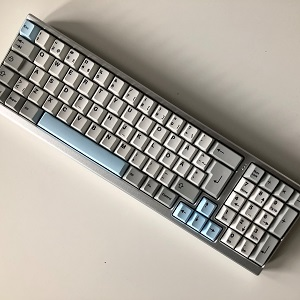
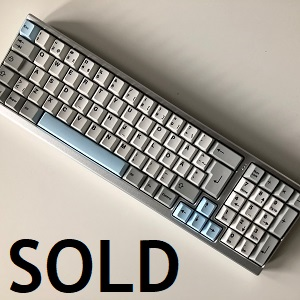
septemeber sale

Changed region(s): [[0.03, 0.78, 0.6, 0.99]]

diff --git a/index.html b/index.html
@@ -67,16 +67,15 @@
 			<i class="fa fa-caret-down"></i>
 			</button>
 		<div class="dropdown-content">
+		<a href="acrylictofu.html">Acrylic Tofu</a>
 		<a href="campine.html">Boardwalk Campine</a>
 		<a href="g80-1800b.html">Black G80-1800</a>
 		<a href="kotai.html">Kotai</a>
 		<a href="decent65v2.html">Decent65</a>
-		<a href="g80-1800.html">Modified G80-1800</a>
+		<a href="g80-1800.html">Beige G80-1800</a>
 		<a href="decent65proto.html">Decent65 prototype</a>
-		<a href="blacktofu.html">Black Tofu</a>
 		<a href="i69.html">i69</a>
 		<a href="idb60proto.html">idb60 prototype</a>
-	    <a href="cypher.html">Cypher keyboard 2</a>
 	    <a href="gregg.html">Gregg</a>
 		</div>
 		</div>
@@ -110,6 +109,24 @@
   –––––––––––––––––––––––––––––––––––––––––––––––––– -->
 <div class="main">
 				<ul id="og-grid" class="og-grid">
+					<li>
+						<a href="acrylictofu.html" data-largesrc="../assets/images/acrylictofu/1.jpg" data-title="Acrylic Tofu" data-description=
+						"
+						<b>Case: </b>Acrylic Tofu</br>
+						<b>Layout: </b>60%</br>
+						<b>Mount: </b>Tray</br>
+						<b>Plate: </b>Brass</br>
+						<b>PCB: </b>Plain60c</br>
+						<b>Switches: </b>Vintage blacks</br>
+						<b>Keycaps: </b>GMK Nautilus R1</br>
+						<b>Aquired: </b>Fall 2019</br></br>
+						<b>Additional information:</b></br>
+Just a Kbdfans Tofu case in acrylic with a brass plate and vintage black switches. Topped off with some lovely GMK Nautilus keycaps.
+						"
+						>
+							<img src="../assets/images/acrylictofu/1.jpg" alt="Acrylic Tofu" width="300"/>
+						</a>
+					</li>
 					<li>
 						<a href="campine.html" data-largesrc="../assets/images/campine/0.jpg" data-title="Boardwalk Campine" data-description=
 						"
@@ -225,26 +242,6 @@ This build is the first prototype and has aluminium plate and Invyr Holy Panda s
 						>
 							<img src="images/decent65proto.jpg" alt="Decent65 Proto" width="300"/>
 						</a>
-					</li>
-					<li>
-						<a href="blacktofu.html" data-largesrc="images/blacktofu.jpg" data-title="Black Tofu" data-description=
-						"
-						<b>Case: </b>Kbdfans black Tofu</br>
-						<b>Layout: </b>60%</br>
-						<b>Mount: </b>Tray</br>
-						<b>Plate: </b>Black aluminium</br>
-						<b>PCB: </b>Plain60-B from Maartenwut</br>
-						<b>Switches: </b>Revo Clears lubed with GPL104</br>
-						<b>Keycaps: </b>OG Cherry alphas and Solarized Dark modifiers</br>
-						<b>Aquired: </b>August 2019</br></br>
-						<b>Additional information:</b></br>
-Not every keyboard have to be fancy, bespoke or custom. This is a very simple traymount Tofu build with aluminium plate.
-But the color combinations really does it for me. The black case, the dark modifiers with their colorful legends and the bright alphas make it subtle yet striking.
-The lubed Revo Clear switches combined with a dampening mat in the case make it sound thoccy and good. 
-						"
-						>
-							<img src="images/blacktofu.jpg" alt="blacktofu" width="300"/>
-						</a>
 					</li>	
 					<li>
 						<a href="i69.html" data-largesrc="images/i69.jpg" data-title="i69" data-description=
@@ -287,26 +284,6 @@ Layout is 60% WKL with stepped CapsLock and split right shift. It is built with 
 						</a>
 					</li>
 					<li>
-						<a href="cypher.html" data-largesrc="assets/images/cypher/5.jpg" data-title="Cypher silver top" data-description=
-						"
-						<b>Board: </b>Cypher with silver top and grey bottom</br>
-						<b>Layout: </b>1800cp without F-row</br>
-						<b>Mount: </b>Top mount</br>
-						<b>Plate: </b>Carbon fiber</br>
-						<b>PCB: </b>Cypher PCB</br>
-						<b>Switches: </b>Unholy Pandas lubed with GPL104</br>
-						<b>Keycaps: </b>ePBT greyscale</br>
-						<b>Aquired: </b>March 2019</br></br>
-						<b>Additional information:</b></br>
-The Cypher is a compact f-rowless 1800 layout keyboard, which means it is somewhat close to fullsize in regard that it has a numpad and arrow cluster, but is lacking the f-row (f1-f12) and one or two rows (depending on size) above the numpad.
-What they lack in number of keys they make in nimble size and portability. The f-row is reached using Fn-key and numrow.
-Furthermore do they have three leds between numlock and backspace for caps lock, num lock and scroll lock. 
-						"
-						>
-							<img src="images/cypher2.jpg" alt="cypher2" width="300"/>
-						</a>
-					</li>
-					<li>
 						<a href="gregg.html" data-largesrc="assets/images/gregg/0.jpg" data-title="Custom handwire: Gregg" data-description=
 						"
 						<b>Board: </b>Custom handwired keyboard in low profile oiled oak case</br>
@@ -324,45 +301,6 @@ It is wired using single core wiring and a Teensy 2.0 as MCU. It turned out grea
 						"
 						>
 							<img src="images/gregg.jpg" alt="gregg" width="300"/>
-						</a>
-					</li>
-					<li>
-						<a href="" data-largesrc="images/jj4x41.jpg" data-title="JJ4x4" data-description=
-						"
-						<b>Board: </b>Grey KPRepublic JJ4x4</br>
-						<b>Layout: </b>16key macropad</br>
-						<b>Mount: </b>Topmount</br>
-						<b>Plate: </b>Stainless steel</br>
-						<b>PCB: </b>JJ4x4</br>
-						<b>Switches: </b>KBDFans T1 Nights</br>
-						<b>Keycaps: </b>ePBT 9009</br>
-						<b>Aquired: </b>December 2018</br></br>
-						<b>Additional information:</b></br>
-I thought i needed a macropad for...macros. And well, I sorta did since I use it as Ctrl+F5 when building websites to reload the pages.
-Also Installed holtites for the switches (making them hotswapable) in the PCB to be able to use it as a switchtester as well.
-Not really anything else to say about it, and no gallery link :)
-						"
-						>
-							<img src="images/jj4x4.jpg" alt="jj4x4" width="300"/>
-						</a>
-					</li>
-					<li>
-						<a href="" data-largesrc="images/cospad1.jpg" data-title="Cospad" data-description=
-						"
-						<b>Board: </b>Silver KPRepublic lopro cospad case</br>
-						<b>Layout: </b>Stand-alone numpad</br>
-						<b>Mount: </b>Tray</br>
-						<b>Plate: </b>Aluminum</br>
-						<b>PCB: </b>idb60</br>
-						<b>Switches: </b>Outemu Ice Purple</br>
-						<b>Keycaps: </b>GMK Carbon and 4 artisans</br>
-						<b>Aquired: </b>September 2017 and later</br></br>
-						<b>Additional information:</b></br>
-One should always have a stand-alone numpad because reasons. Since many of my keyboards don't have a numpad I though a separate one would be needed. But no, I never use the numpad.
-It's a good little artisan-holder atleast. No additional pictures in gallery.
-						"
-						>
-							<img src="images/cospad.jpg" alt="cospad" width="300"/>
 						</a>
 					</li>
 				</ul>
@@ -401,7 +339,7 @@ It's a good little artisan-holder atleast. No additional pictures in gallery.
 						</a>
 					</li>
 					<li>
-						<a href="cypher.html" data-title="Cypher grey to" data-description=>
+						<a href="cypher.html" data-title="Cypher grey top" data-description=>
 							<img src="images/cypher1.jpg" alt="Cypher grey to" width="300"/>
 						</a>
 					</li>
@@ -433,6 +371,16 @@ It's a good little artisan-holder atleast. No additional pictures in gallery.
 					<li>
 						<a href="idb60xtproto.html" data-title="idb60xt prototype" data-description=>
 							<img src="images/idb60xt.jpg" alt="idb60xt prototype" width="300"/>
+						</a>
+					</li>
+					<li>
+						<a href="cypher.html" data-title="Cypher silver top" data-description=>
+							<img src="images/cypher2.jpg" alt="Cypher silver top" width="300"/>
+						</a>
+					</li>
+					<li>
+						<a href="blacktofu.html" data-title="Black Tofu" data-description=>
+							<img src="images/blacktofu.jpg" alt="Black Tofu" width="300"/>
 						</a>
 					</li>
 				</ul>

diff --git a/acrylictofu.html b/acrylictofu.html
@@ -5,10 +5,10 @@
   <!-- Basic Page Needs, edit title and description
   –––––––––––––––––––––––––––––––––––––––––––––––––– -->
   <meta charset="utf-8">
-  <title>Stormlike - Black Tofu</title>
-  <meta name="description" content="blacktofu">
-  <meta property="og:image" content="/assets/images/blacktofu/0.jpg" />
-  <meta name="keywords" content="Kbdfans, Tofu, black, OG Cherry, gmk, aluminum, solarized dark, 60%, keyboard, keyboards, google image search, custom, catalogue, stormlike" />
+  <title>Stormlike - Acrylic Tofu</title>
+  <meta name="description" content="acrylictofu">
+  <meta property="og:image" content="/assets/images/acrylictofu/1.jpg" />
+  <meta name="keywords" content="Kbdfans, Tofu, acrylic, gmk, brass, nautilus, 60%, keyboard, keyboards, google image search, custom, catalogue, stormlike" />
   <meta name="author" content="Stormlike">
   
 <!-- Global site tag (gtag.js) - Google Analytics -->
@@ -62,27 +62,24 @@
 		</a>
        </div>
 	   <div class="six columns" align="right">
-				<h2>Black Tofu</h2>
+				<h2>Acrylic Tofu</h2>
        </div>
      </div>
 <!-- intro section, features. Edit images
   –––––––––––––––––––––––––––––––––––––––––––––––––– -->
 	 <div class="row">
 	  <div class="twelwhite columns">
-	  <a href="../assets/images/blacktofu/0.jpg">
-		<img class="u-images" src="../assets/images/blacktofu/0.jpg" alt="blacktofu">
+	  <a href="../assets/images/acrylictofu/0.jpg">
+		<img class="u-images" src="../assets/images/acrylictofu/0.jpg" alt="acrylictofu">
 	  </a>
-	   <h3>Black Tofu</h3>
+	   <h3>Acrylic Tofu</h3>
 	   <p>
-This is a very simple traymount Tofu build with aluminium plate, but the color combinations really does it for me.
-The black case, the dark modifiers with their colorful legends and the bright alphas make it subtle yet striking.
-The lubed Revo Clear switches combined with a dampening mat in the case make it sound thoccy and good. GMK Screw-in stabilizers of course.
+This is a very simple traymount Tofu build with brass plate, but the combination of frosted acrylic case and the keycaps make it quite nice.
+Switches are lubed vintage Cherry blacks and the stabs are GMK screw-ins. The plate is actually black aluminium in the pictures, but was changed shortly after pictures were taken.
 	   <br>
 	   <br>
-The keycaps are a combination of ultra sonic cleaned original Cherry keycaps harvested from an old keyboard and new GMK Solarized Dark modifiers with the colorful legends.
+The keycaps are GMK Nautilus R1 with a little hapster cap on escape.
 	   </p>
-	   <h4>Update September 2020</h4>
-Keyboard is sold
 	  </div>
 	</div>
 <!-- Main bulk section. Edit image links and folders, and desc-text
@@ -94,29 +91,20 @@ Keyboard is sold
      </div>
   <div class="row">
 	<div class="four columns">
-	   <a href="../assets/images/blacktofu/1.jpg">
-		<img class="u-images" src="../assets/images/blacktofu/1.jpg" alt="blacktofu">
+	   <a href="../assets/images/acrylictofu/1.jpg">
+		<img class="u-images" src="../assets/images/acrylictofu/1.jpg" alt="acrylictofu">
 	  </a>
 	<div class="desc">
 Side view with the Tofu profile
 	</div>
 	</div>
 
-	<div class="four columns">
-	   <a href="../assets/images/blacktofu/2.jpg">
-		<img class="u-images" src="../assets/images/blacktofu/2.jpg" alt="blacktofu">
+	<div class="eight columns">
+	   <a href="../assets/images/acrylictofu/2.jpg">
+		<img class="u-images" src="../assets/images/acrylictofu/2.jpg" alt="acrylictofu">
 	  </a>
 	 <div class="desc">
-Another angled shot of the keyboard
-	</div>
-	</div>
-
-	<div class="four columns">
-	  <a href="../assets/images/blacktofu/3.jpg">
-		<img class="u-images" src="../assets/images/blacktofu/3.jpg" alt="blacktofu">
-	  </a>
-	 <div class="desc">
-And the other side
+Top down view
 	</div>
 	</div>
 </div>

diff --git a/cypher.html b/cypher.html
@@ -108,6 +108,9 @@ The reasons for buying two are that one is going to be the wifes keyboard and th
 </br>
 <h4>Update June 2020</h4>
 The grey top/silver bottom Cypher is sold.
+</br></br>
+	   <h4>Update September 2020</h4>
+The silver top/grey bottom Cypher is also sold.
 	   </p>
 	  </div>
 	</div>
